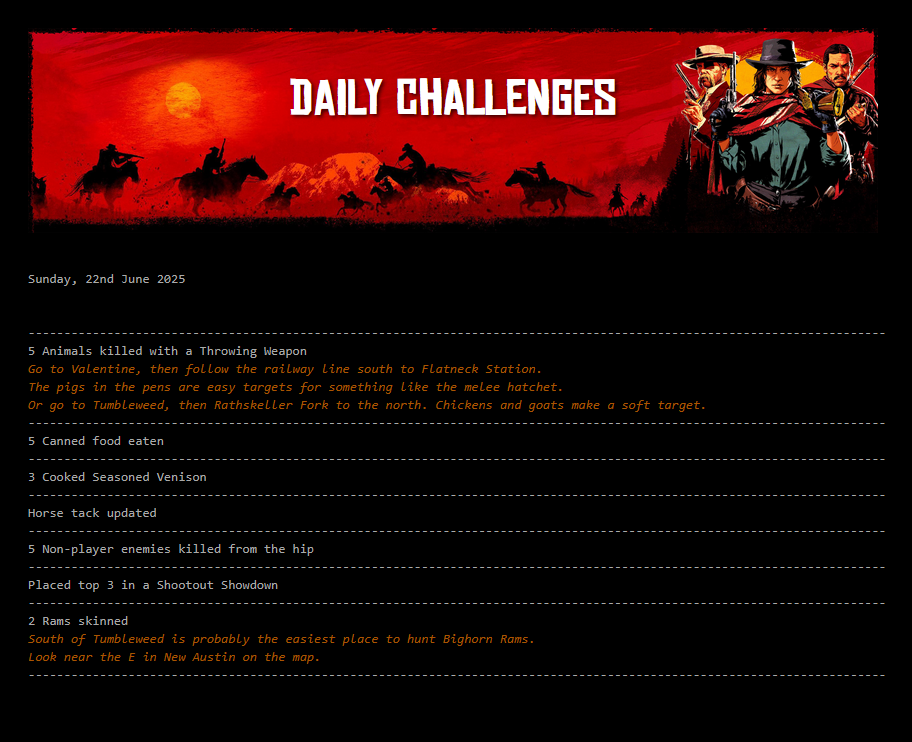
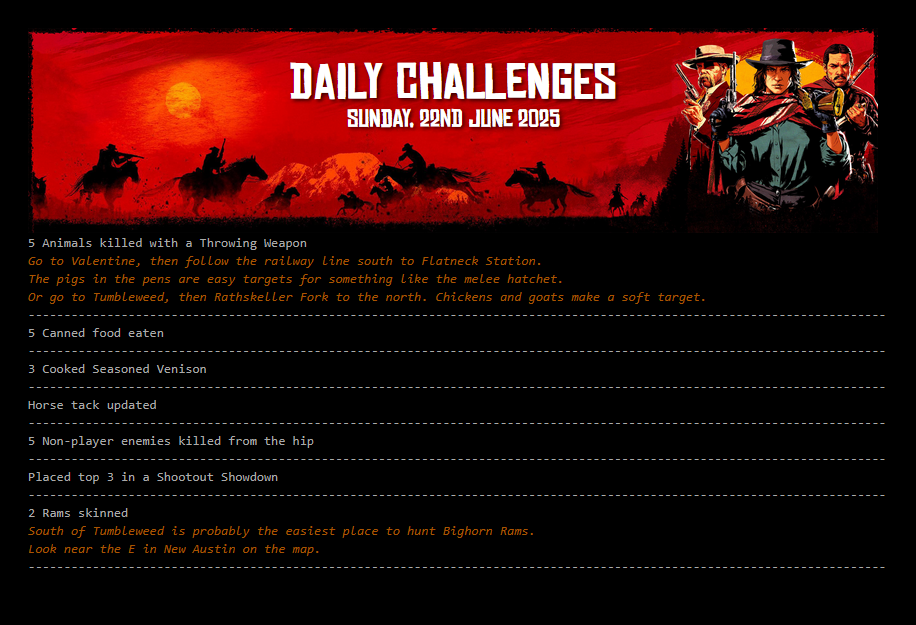
Cleanup regarding the date printing

Changed region(s): [[0.0307, 0.0304, 0.9825, 0.608], [0.0307, 0.6384, 0.9518, 0.912]]

diff --git a/RDO_dailies.py b/RDO_dailies.py
@@ -502,8 +502,6 @@ def find_predefined_challenge(title):
 # Prepare a buffer to capture output
 buffer = io.StringIO()
 
-# Redirect stdout to buffer
-sys.stdout = buffer
 
 ######################################################################################################
 
@@ -518,7 +516,12 @@ human_readable_date = get_human_readable_date(unix_time)
 print("\n")
 print(human_readable_date)
 print("\n")
-print("-" * 120)
+
+
+
+# Redirect stdout to buffer
+sys.stdout = buffer
+
 
 # Step 1: Collect all challenges into a list with necessary info
 all_challenges = []
@@ -613,6 +616,7 @@ with open("challenges.html", "w", encoding="utf-8") as f:
     f.write(html_output)
 
 # Also, print to shell
+print("-" * 120)
 print(captured_output)
 
 
@@ -682,10 +686,10 @@ html_full = f"""
       left: 50%;
       transform: translateX(-50%);
       color: white;
-      font-size: 3em;
       margin: 0;
       padding: 10px;
-      /* background: rgba(0, 0, 0, 0.3);
+      /* Responsive font size: */
+      font-size: clamp(0.25em, 5vw, 3em);
       /* Drop shadow effect: */
       text-shadow: 2px 2px 4px rgba(0,0,0,0.7);
     }}
@@ -697,7 +701,7 @@ html_full = f"""
       left: 50%;
       transform: translateX(-50%);
       color: white;
-      font-size: 1.5em;
+      font-size: clamp(0.15em, 1.5vw, 1.5em);
       margin: 0;
       padding: 10px;
       /* background: rgba(0, 0, 0, 0.3);
